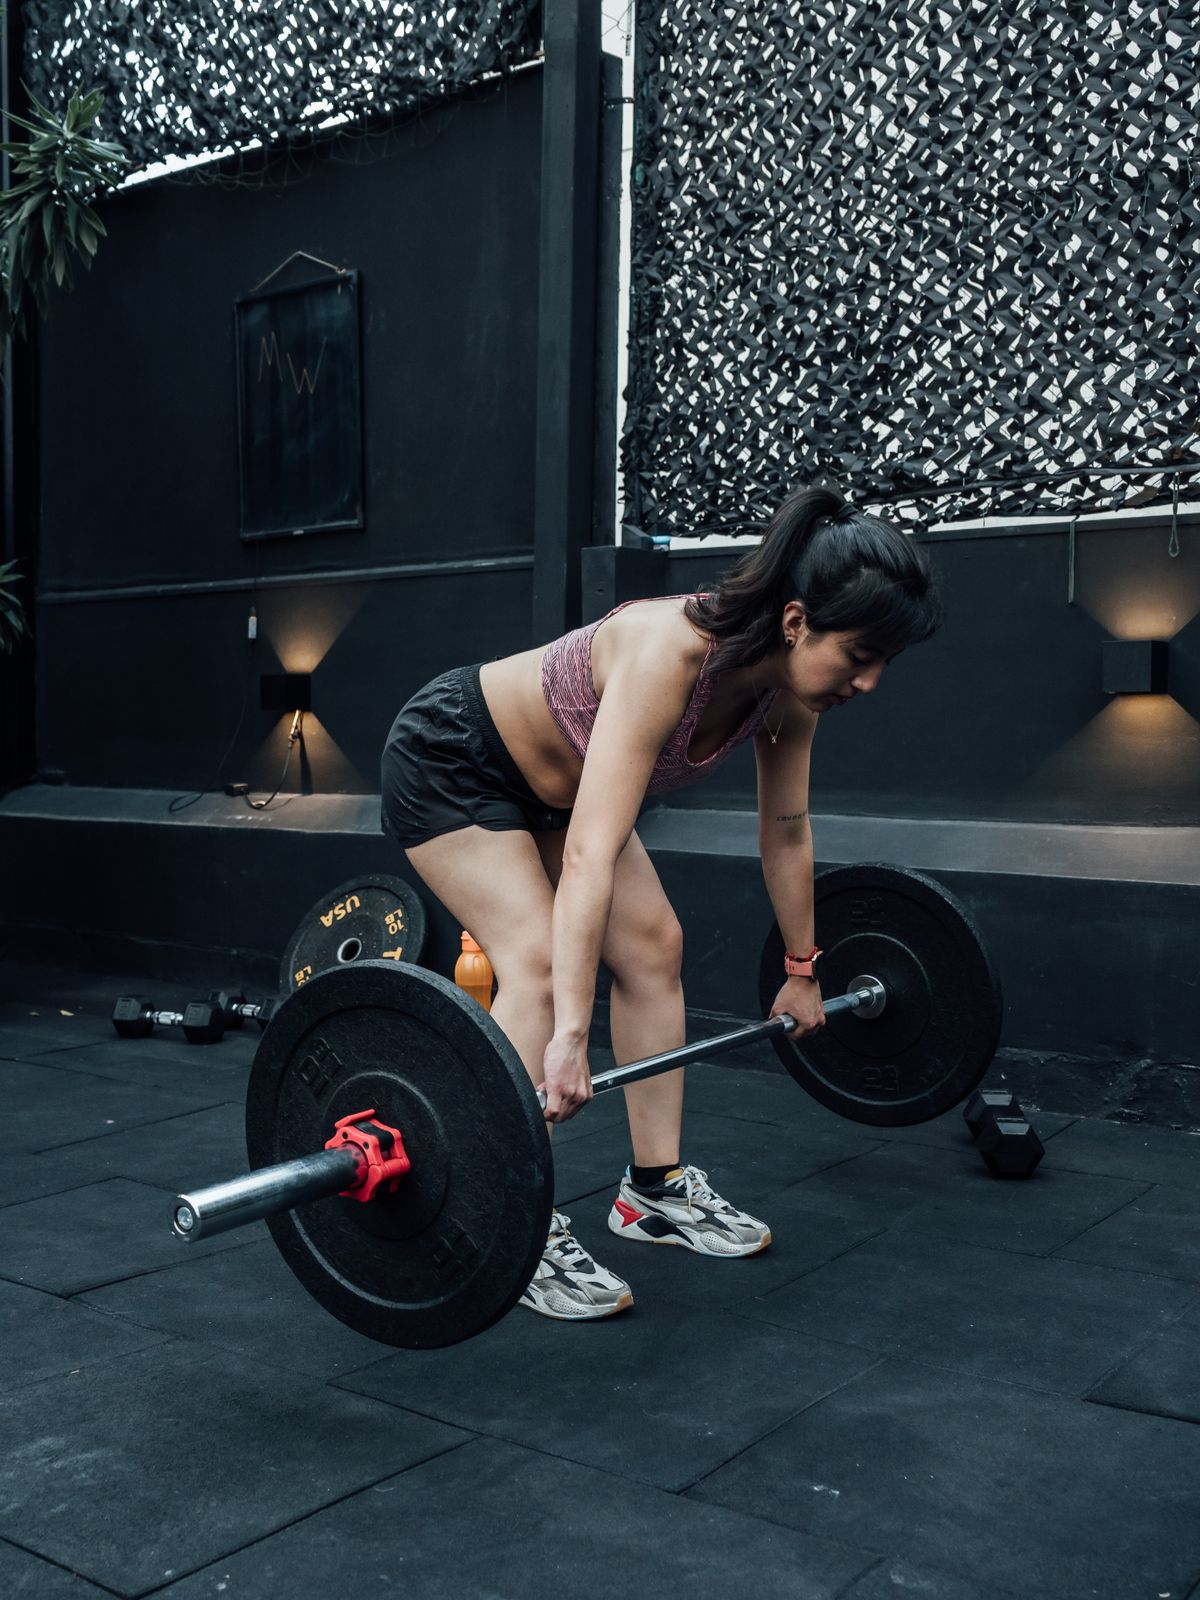
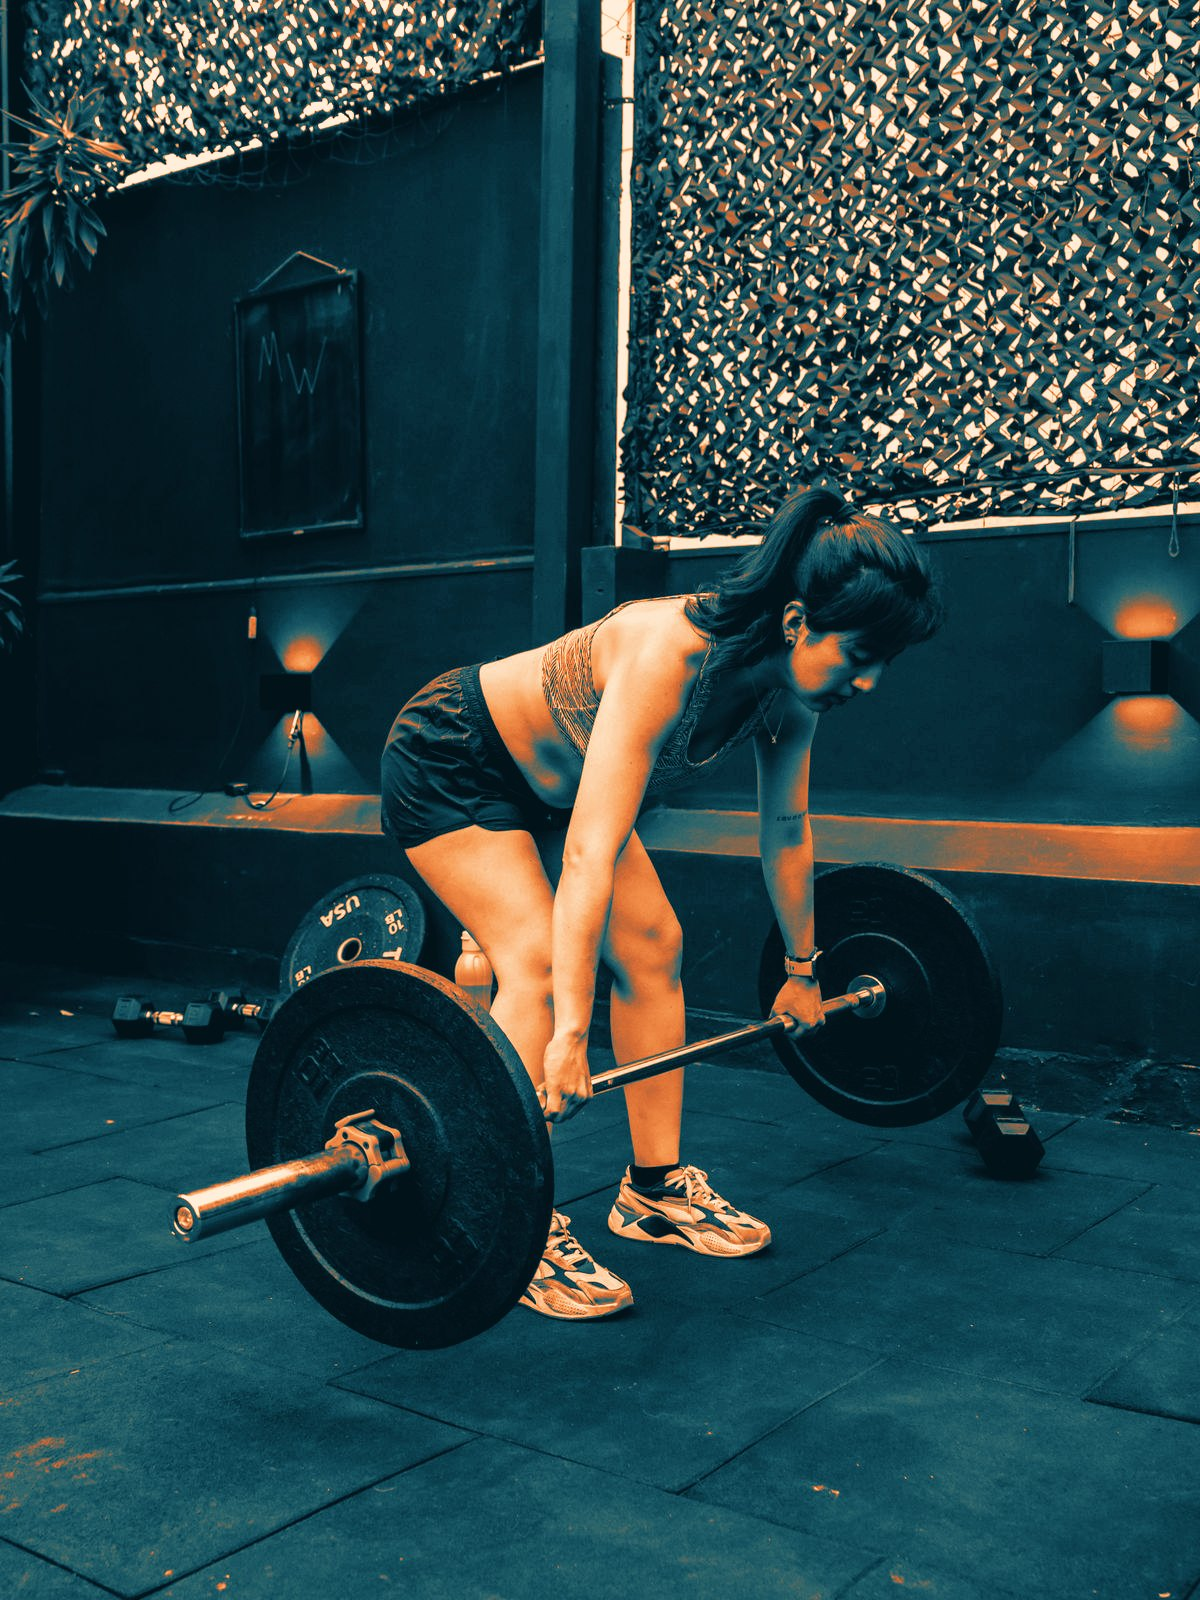
feat(home): phủ hiệu ứng xanh-cam cho ảnh "Bền bỉ", dọn code trang chủ (giữ nguyên giao diện)
- strip-endurance.jpg (ảnh "Bền bỉ" trong dải "Đánh thức bản năng") là ảnh duy nhất chưa tô màu.
  Các ảnh khác tô sẵn trong file → áp đúng bảng màu (gradient map) đo từ strip-squat / curl / ropes /
  hero-barbell, chỉnh độ sáng cho khớp. Ghi lại cách xử lý trong strip-endurance.jpg.json.
- home.css: mục lục đầu file theo thứ tự khối trên trang; gộp đoạn "vá" khoảng dòng tiêu đề ở cuối file
  vào đúng quy tắc gốc (so pixel trước/sau: không đổi).
- home.jsp: đầu file theo mẫu chung (dữ liệu Servlet gửi sang, bố cục 8 khối), đánh số các khối.
- HomeServlet / HomeService: nhãn HÀM CHÍNH / HÀM PHỤ, sửa đường dẫn JSP ghi sai trong comment.
- Ô ảnh trống ở ảnh chụp cũ là do ảnh lazy-load chưa cuộn tới — đã kiểm tra, không ảnh nào hỏng.

Claude-Session: https://claude.ai/code/session_01RymcejANxjvpSHBvW9MFKq

diff --git a/src/main/webapp/css/pages/guest/home.css b/src/main/webapp/css/pages/guest/home.css
@@ -1,6 +1,20 @@
 @charset "UTF-8";
-/* Trang chủ editorial: cam than hồng × đại dương sâu. home-motion.js dùng
-.cine-line, .cine-hero__photo, [data-card], [data-fade]; nội dung mặc định luôn hiện. */
+/* =====================================================================
+   TRANG CHỦ — home.css  (thiết kế "EMBER × AQUA": khối cam than hồng × đại dương sâu)
+
+   ĐỌC THEO THỨ TỰ (giống thứ tự khối trên trang):
+     1. Nền trang, nút, tiêu đề chung
+     2. Hero (chữ to bên trái, ảnh bên phải) + dải chữ cuối hero
+     3. Dải 4 ảnh "Đánh thức bản năng"   (ảnh đã tô sẵn màu xanh-cam trong file JPG)
+     4. Dịch vụ
+     5. Bảng giá gói tập + gói PT
+     6. Đội ngũ, bài viết
+     7. Hỏi đáp, kêu gọi đăng ký
+     8. Màn hẹp + giảm chuyển động
+
+   home-motion.js chỉ THÊM chuyển động cho .cine-line, .cine-hero__photo, [data-card], [data-fade];
+   tắt JS / giảm chuyển động thì nội dung vẫn hiện đủ.
+   ===================================================================== */
 .home-cine {
   background: var(--brand-warm-surface);
   color: var(--brand-paper);
@@ -93,13 +107,14 @@
   color: var(--brand-ember);
 }
 
-/* Tiêu đề có khoảng dòng đủ rộng cho dấu tiếng Việt. */
+/* Tiêu đề chữ in hoa: chừa đủ khoảng dòng để dấu dưới (Ạ) và dấu trên chồng (Ỗ, Ẫ) không chạm nhau.
+   Tiêu đề mục 1.2; tiêu đề hero 1 (mỗi dòng đã có padding riêng, xem .cine-line). */
 .cine-h2, .cine-h3, .cine-title {
   margin: 0;
   font-family: var(--font-cinematic);
   font-weight: var(--font-weight-bold);
-  line-height: var(--line-height-tight);
-  letter-spacing: var(--letter-spacing-normal);
+  line-height: 1.2;
+  letter-spacing: -0.005em;
   text-wrap: balance;
 }
 
@@ -201,12 +216,14 @@
   max-width: 60%;
   color: var(--brand-ink);
   font-size: var(--brand-hero-size);
+  line-height: 1;
   text-transform: uppercase;
 }
 
+/* Mỗi dòng tiêu đề hero: ~0.6em giữa chân chữ dòng trên và đỉnh chữ dòng dưới (đủ chỗ cho dấu). */
 .cine-line {
   display: block;
-  padding-block: var(--space-1);
+  padding-block: 0.14em 0.22em;
 }
 
 .cine-line > span {
@@ -955,9 +972,3 @@ Không phụ thuộc số gói DB; flex-basis lấy đúng chiều rộng sau kh
     transition: none;
   }
 }
-
-/* Inter Tight in hoa: mỗi dòng chừa ~0.6em giữa chân chữ dòng trên và đỉnh chữ dòng dưới,
-   đủ cho dấu dưới (Ạ) và dấu trên chồng (Ỗ, Ẫ) không chạm nhau; chữ giãn nhẹ cho thoáng */
-.cine-title { line-height: 1; letter-spacing: -0.005em; }
-.cine-line { padding-block: 0.14em 0.22em; }
-:is(.cine-h2, .cine-h3) { line-height: 1.2; letter-spacing: -0.005em; }

diff --git a/src/main/webapp/js/pages/guest/home-motion.js b/src/main/webapp/js/pages/guest/home-motion.js
@@ -1,7 +1,8 @@
 // =====================================================================
-// home-motion.js — Nhịp mở màn Super Gym: chữ lên trước, ảnh lấy nét theo sau.
-// DOM: .cine-hero, .cine-line > span, .cine-hero__photo, .cine-strip [data-card].
-// Web Animations API chỉ bổ sung chuyển động; HTML/CSS luôn hiển thị đủ nội dung.
+// home-motion.js — HIỆU ỨNG TRANG CHỦ: chữ hero trồi lên trước, ảnh lấy nét theo sau, khối hiện dần khi cuộn.
+// DOM: .cine-hero, .cine-line > span, .cine-hero__photo, .cine-strip [data-card], [data-fade].
+// Web Animations API chỉ THÊM chuyển động (fill: "none"): tắt JS hoặc bật "giảm chuyển động"
+// thì HTML/CSS vẫn hiện đủ nội dung — không có gì bị ẩn chờ JS.
 // =====================================================================
 
 document.addEventListener("DOMContentLoaded", function () {

diff --git a/src/main/java/com/gms/service/HomeService.java b/src/main/java/com/gms/service/HomeService.java
@@ -13,11 +13,13 @@ import java.util.ArrayList;
 import java.util.List;
 
 /**
- * Service cung cấp dữ liệu cho trang chủ khách vãng lai (luật 2.6, kịch bản test H01–H07).
+ * SERVICE TRANG CHỦ (luật 2.6, kịch bản test H01–H07). Chỉ HomeServlet gọi.
  *
- * <p>Các nhóm dữ liệu: gói tập nổi bật (gym), gói PT, danh sách PT đang làm, giờ mở cửa và 3 bài blog mới nhất.</p>
+ *   getHomePage     HÀM CHÍNH: gom 5 khối — gói tập, gói PT, PT đang làm, giờ mở cửa, 3 bài blog mới nhất
+ *   buildGymCards   HÀM PHỤ: giá/tháng + % tiết kiệm cho gói tập → assignBadges gắn "Phổ biến nhất" / "Tiết kiệm nhất"
+ *   toMonths        HÀM PHỤ DÙNG CHUNG: số tháng của gói
  *
- * <p>Bộ lọc áp dụng: chỉ lấy gói đang bán qua PackageDAO.findActiveForHomepage(), tách nhóm theo packageType (PT / hội viên), gắn nhãn "Phổ biến nhất" và "Tiết kiệm nhất" cho gói hội viên; blog lấy 3 bài mới nhất (LATEST_POST_LIMIT).</p>
+ * Chỉ lấy gói ĐANG BÁN (PackageDAO.findActiveForHomepage); blog lấy LATEST_POST_LIMIT = 3 bài.
  *
  * @author Le Cong Minh
  */
@@ -32,9 +34,12 @@ public class HomeService {
     private final SystemConfigService systemConfigService = new SystemConfigService();
     private final BlogService blogService = new BlogService();
 
-    // ===== Truy vấn trang chủ =====
+    // =================================================================================================
+    // HÀM CHÍNH
+    // =================================================================================================
 
     /**
+     * HÀM CHÍNH — HomeServlet.doGet gọi ở B1, mỗi lần có người mở trang chủ.
      * Gom 5 khối dữ liệu trang chủ trong 1 lần gọi: gói tập (kèm giá/tháng, % tiết kiệm, nhãn), gói PT, PT đang làm, giờ mở cửa và 3 bài blog mới nhất.
      * Lỗi ở blog chỉ ẩn khối blog, không làm hỏng cả trang; lỗi DB khác trả về MSG04.
      */
@@ -84,9 +89,12 @@ public class HomeService {
         }
     }
 
-    // ===== Build thẻ gói tập (gym) =====
+    // =================================================================================================
+    // HÀM PHỤ
+    // =================================================================================================
 
     /**
+     * HÀM PHỤ — gọi ở B2 của getHomePage.
      * Tạo danh sách thẻ giá cho gói tập: tính giá/tháng, % tiết kiệm so với gói 1 tháng, rồi gắn nhãn "Phổ biến nhất" / "Tiết kiệm nhất".
      *
      * Ví dụ seed (gói 1 tháng = 799.000):
@@ -136,9 +144,8 @@ public class HomeService {
         return cards;
     }
 
-    // ===== Gắn nhãn cho gói hội viên =====
-
     /**
+     * HÀM PHỤ — gọi ở B3 của buildGymCards.
      * Gán nhãn cho các gói hội viên: "Tiết kiệm nhất" = gói có % tiết kiệm cao nhất, "Phổ biến nhất" = gói tháng dài thứ 2 (list đã sắp ngắn → dài); trùng thì bỏ.
      * Nhóm muốn đổi tiêu chí (VD đếm gói bán chạy) → chỉ sửa hàm này.
      */
@@ -164,9 +171,8 @@ public class HomeService {
         }
     }
 
-    // ===== Hỗ trợ chuyển đổi thời hạn =====
-
     /**
+     * HÀM PHỤ DÙNG CHUNG — gọi ở B2 của getHomePage và B1, B2 của buildGymCards.
      * Số tháng của gói (DBR-19); gói ngày và buổi lẻ → 0.
      */
     private int toMonths(Package pkg) {

diff --git a/src/main/java/com/gms/servlet/guest/HomeServlet.java b/src/main/java/com/gms/servlet/guest/HomeServlet.java
@@ -12,19 +12,19 @@ import jakarta.servlet.http.HttpServletResponse;
 import java.io.IOException;
 
 /**
- * Servlet xử lý trang chủ công khai (URL "" — root context, GET /).
+ * TRANG CHỦ CÔNG KHAI — GET / (màn #5, UC-06). Chỉ xem.
  *
- * <p>Nạp dữ liệu tổng quan (gói tập, huấn luyện viên, blog nổi bật…) rồi forward sang JSP /WEB-INF/views/guest/home.jsp.</p>
+ *   doGet   HÀM CHÍNH: HomeService.getHomePage → attribute "home" → JSP WEB-INF/jsp/guest/home.jsp
  */
 @WebServlet("")
 public class HomeServlet extends HttpServlet {
 
     private final HomeService homeService = new HomeService();
 
-    // ===== GET: Trang chủ =====
 
     /**
-     * GET / — mở trang chủ; gọi HomeService lấy dữ liệu, lỗi Service thì trả 500.
+     * HÀM CHÍNH — trình duyệt gọi khi mở trang gốc "/" (hoặc bấm logo / "Trang chủ").
+     * Lỗi DB → trang lỗi 500 (trang chủ không có dữ liệu thì không có gì để hiện).
      */
     @Override
     protected void doGet(HttpServletRequest request, HttpServletResponse response)
